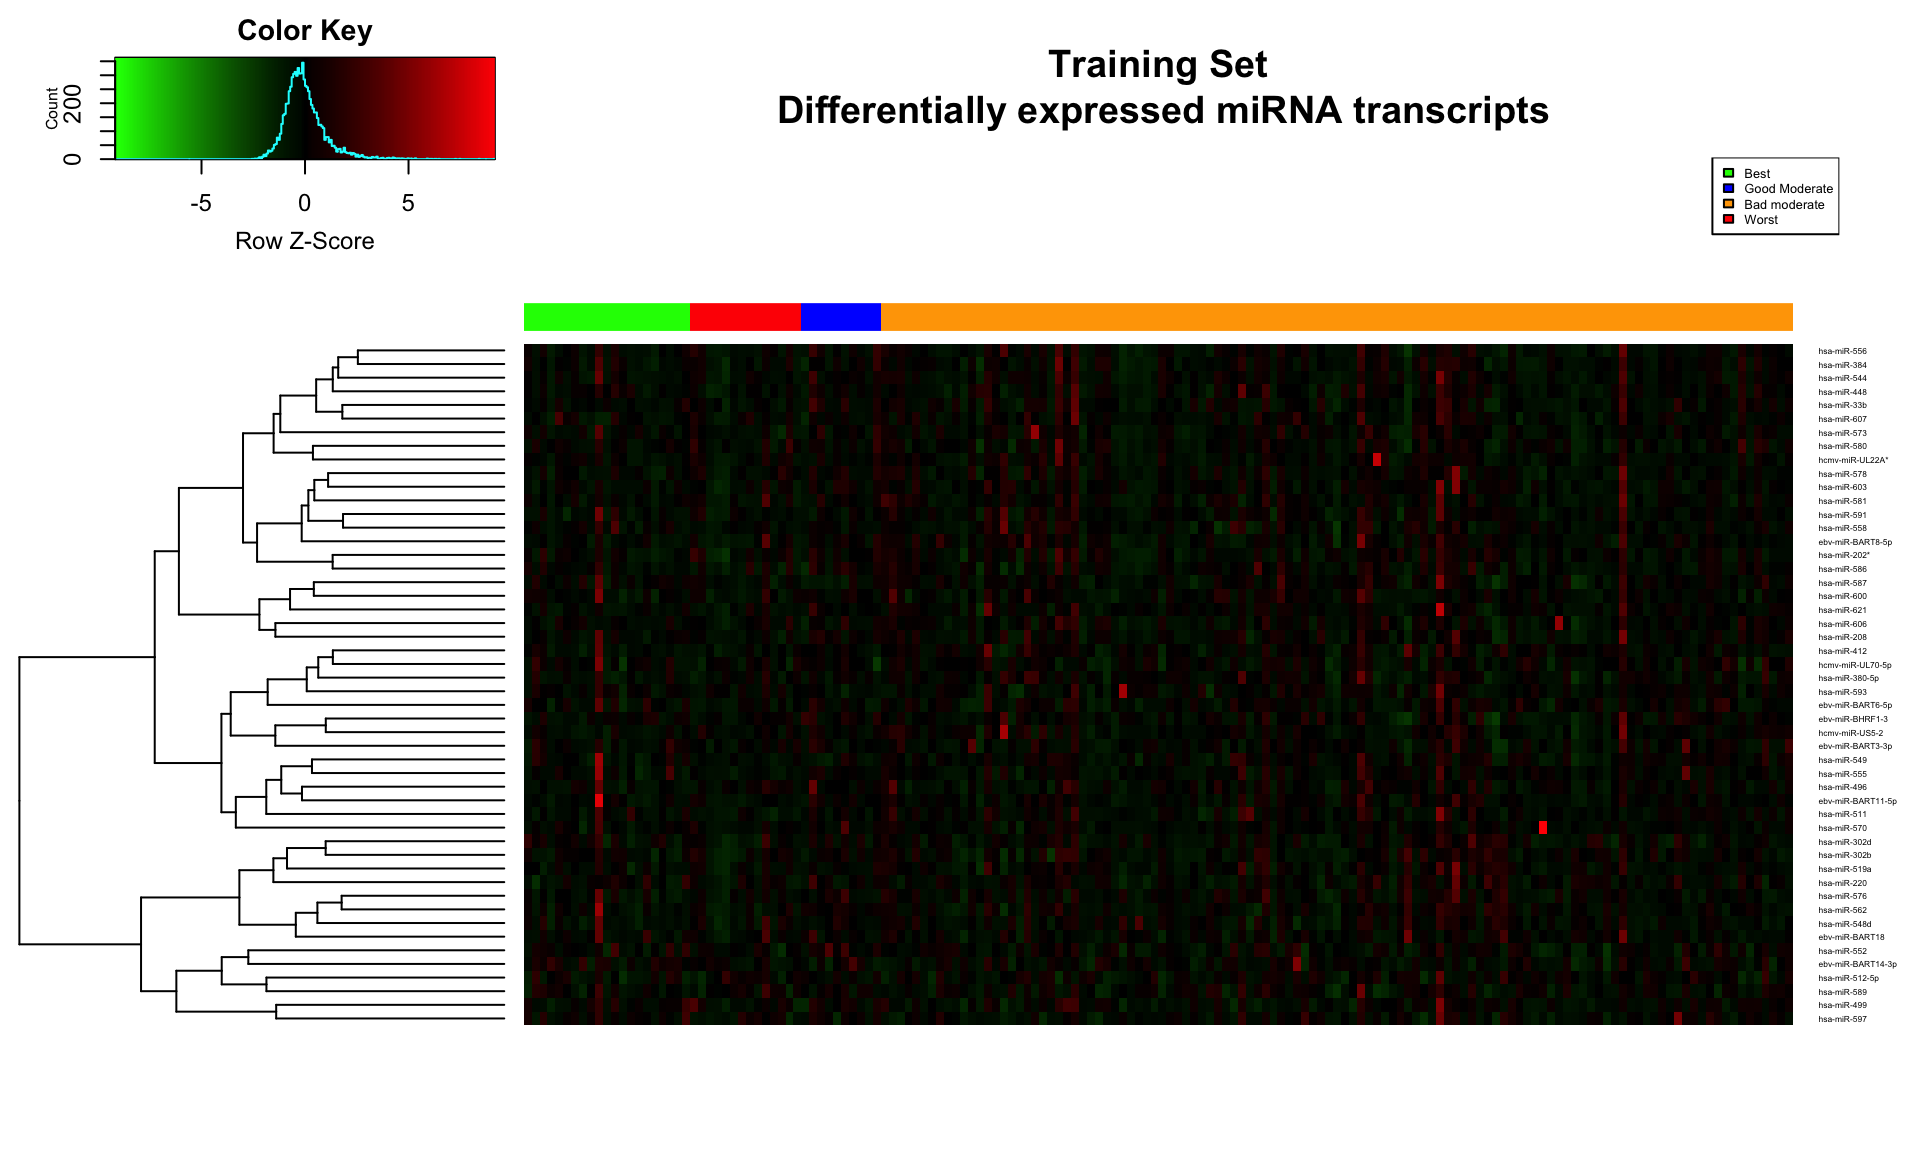
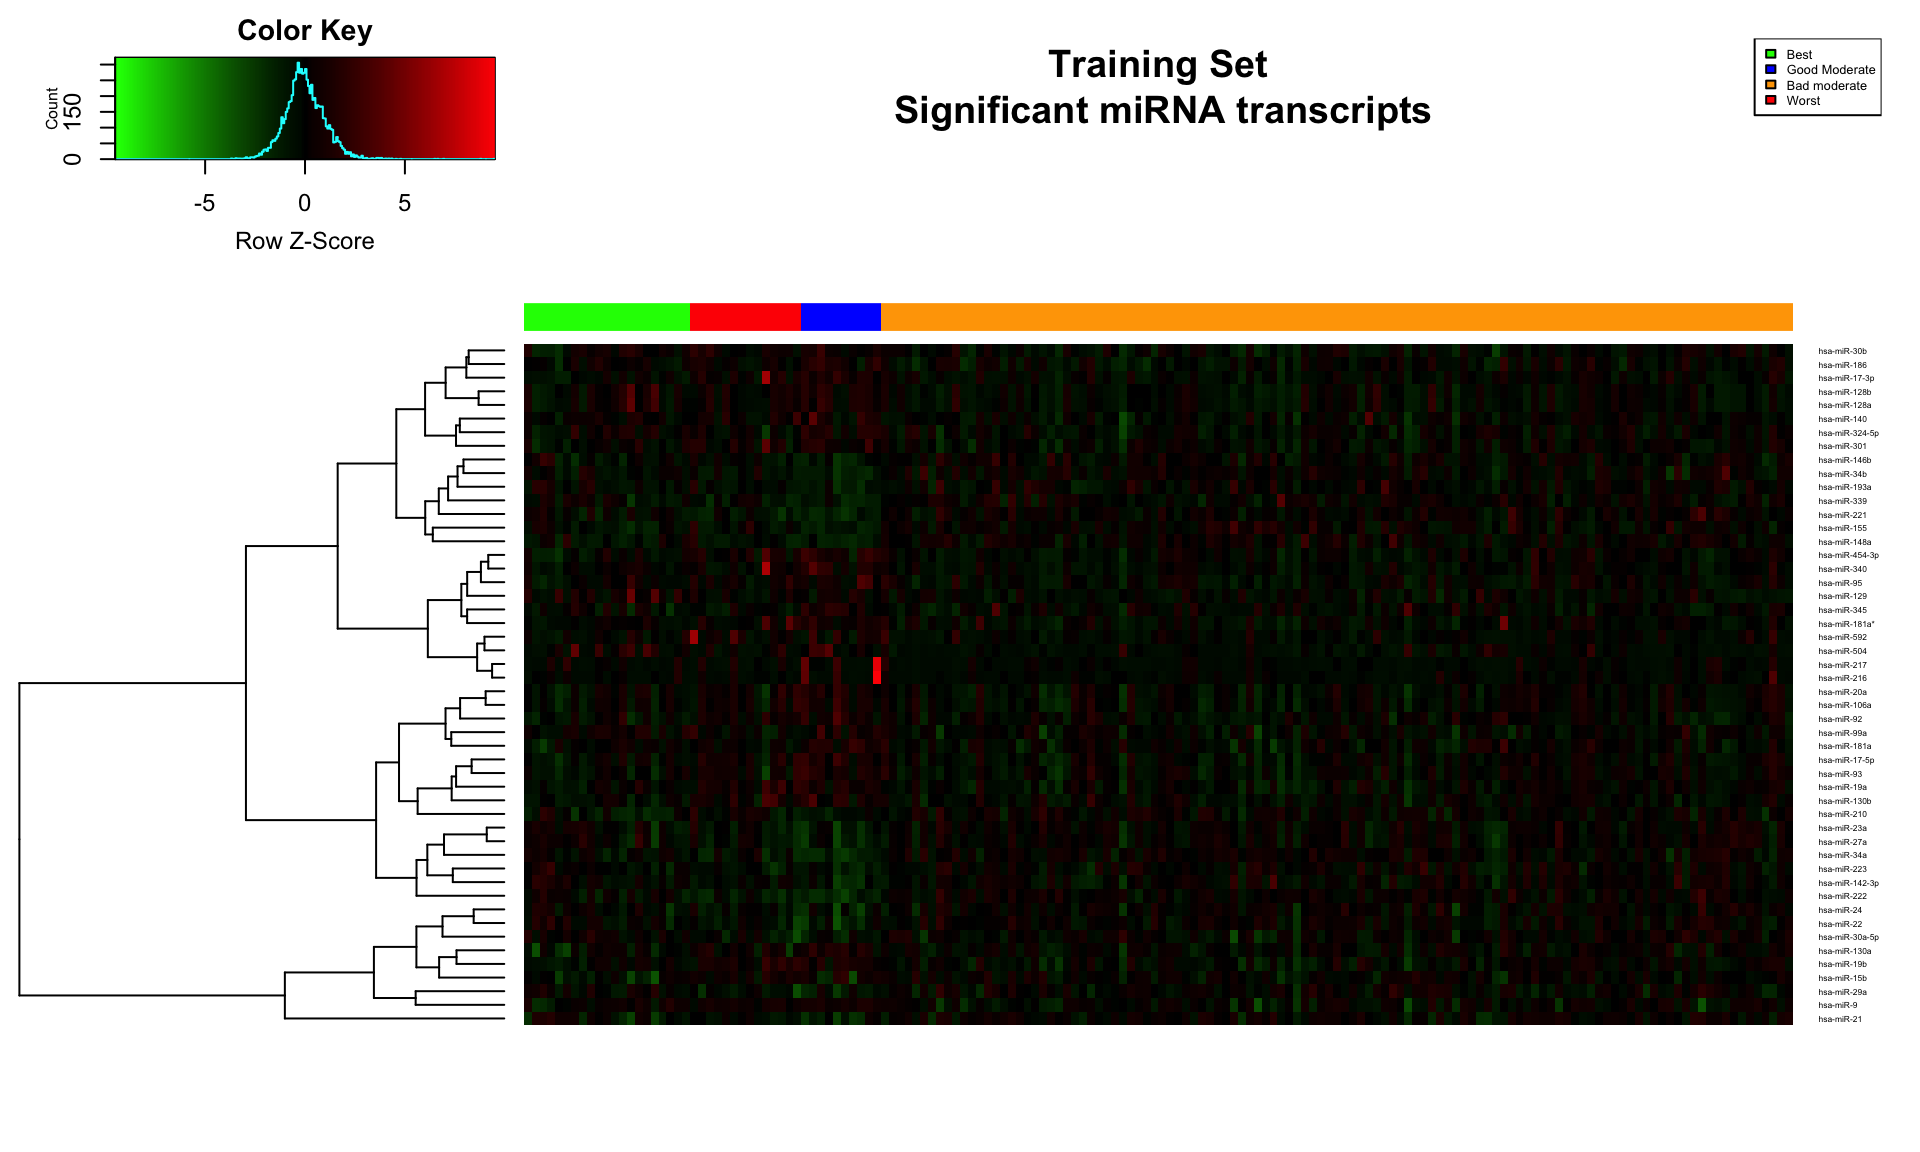
signigicant feature plots

diff --git a/docs/AnalysisOfResults.html b/docs/AnalysisOfResults.html
@@ -765,19 +765,23 @@ p.targets.test</code></pre>
 <h2>Differential expression</h2>
 <div id="training-set-5" class="section level3">
 <h3>Training set</h3>
+<div id="heatmap-1" class="section level4">
+<h4>Heatmap</h4>
 <pre class="r"><code>##### Load the SBC Labels
 cluster  &lt;- factor(c.sbc)
 ##### Create the design matrix with these labels
-mm &lt;- model.matrix( ~0+cluster)
+design&lt;- model.matrix( ~0+cluster)
+fit&lt;-lmFit(t(miRNA_TrainingSet) , design= design)
 
 ##### You can also define a contrast matrix which only looks at cluster specific contrasts
 cont.matrix &lt;- makeContrasts(Cluster1vsCluster2 = cluster1 - cluster2,Cluster1vsCluster3=cluster1 - cluster3,Cluster1vsCluster4=cluster1 - cluster4,Cluster2vsCluster3= cluster2 - cluster3,
-Cluster2vsCluster4=cluster2 - cluster4,Cluster3vsCluster4=cluster3 - cluster4,levels= mm)
+Cluster2vsCluster4=cluster2 - cluster4,Cluster3vsCluster4=cluster3 - cluster4,levels= design)
+
 ###### Fit limma model
-fit &lt;- lmFit(t(miRNA_TrainingSet), design = mm)
-efit &lt;- eBayes(fit)
+fit.2 &lt;- contrasts.fit(fit, contrasts = cont.matrix)
+fit.2 &lt;- eBayes(fit.2, trend= TRUE)
 ###### Look for DE table
-topmiRNA.train&lt;-rownames(topTable(efit,number=50,adjust.method=&quot;BH&quot;))
+topmiRNA.train&lt;-rownames(topTable(fit.2,number=50, p.val=0.1))
 
 miRNA.matrix.train&lt;-miRNA_TrainingSet[,topmiRNA.train]
 miRNA.matrix.train$sbc.labels&lt;-c.sbc
@@ -785,42 +789,65 @@ miRNA.matrix.train&lt;-miRNA.matrix.train[order(miRNA.matrix.train$sbc.labels),]
 ordered_labels&lt;-miRNA.matrix.train$sbc.labels
 miRNA.matrix.train$sbc.labels&lt;-NULL
 
+par(mar=c(1,1,1,1))
+
 hmcols&lt;-colorRampPalette(c(&quot;green&quot;,&quot;black&quot;,&quot;red&quot;))(256)
-heatmap.2(x = t(miRNA.matrix.train),Colv = FALSE, Rowv=TRUE, dendrogram= c(&quot;row&quot;), scale =&quot;row&quot;,ColSideColors =c(&quot;green&quot;,&quot;red&quot;,&quot;blue&quot;,&quot;orange&quot;)[ordered_labels], labRow = colnames(miRNA.matrix.train), labCol = NA, main = &#39; \n Training Set \n Differentially expressed miRNA transcripts&#39;, col =hmcols, cexRow =0.40, trace =&quot;none&quot;, key.title = &quot;Color Key&quot;)
+heatmap.2(x = t(miRNA.matrix.train),Colv = FALSE, Rowv=TRUE, dendrogram= c(&quot;row&quot;), scale =&quot;row&quot;,ColSideColors =c(&quot;green&quot;,&quot;red&quot;,&quot;blue&quot;,&quot;orange&quot;)[ordered_labels], labRow = colnames(miRNA.matrix.train), labCol = NA, main = &#39; \n Training Set \n Significant miRNA transcripts&#39;, col =hmcols, cexRow =0.40, trace =&quot;none&quot;, key.title = &quot;Color Key&quot;)
 legend(&quot;topright&quot;, legend = c(&quot;Best&quot;,&quot;Good Moderate&quot;,&quot;Bad moderate&quot;,&quot;Worst&quot;),fill = c(&quot;Green&quot;,&quot;Blue&quot;,&quot;Orange&quot;,&quot;Red&quot;), cex = 0.4)</code></pre>
 <p><img src="AnalysisOfResults_files/figure-html/miRNA%20differential%20expression%20%20of%20training%20set-1.png" width="960" /></p>
 </div>
+<div id="significant-features" class="section level4">
+<h4>Significant features</h4>
+<pre class="r"><code>par(mar=c(1,1,1,1))
+pairwise.miRNA.train&lt;-as.matrix(topTable(fit.2,number = 20,adjust.method=&quot;BH&quot;)[,1:6])
+#hmcols&lt;-colorRampPalette(c(&quot;green&quot;,&quot;black&quot;,&quot;red&quot;))(256)
+heatmap.2(x = pairwise.miRNA.train,Colv = FALSE, Rowv=TRUE, dendrogram= c(&quot;row&quot;), scale =&quot;row&quot;, labRow =rownames(pairwise.miRNA.train), labCol = colnames(pairwise.miRNA.train), main = &#39; \n Training Set \n Significant miRNA transcripts&#39;, col =hmcols, cexRow =0.40,cexCol = 0.4, trace =&quot;none&quot;, key.title = &quot;Color Key&quot;, margins=c(6,10))</code></pre>
+<p><img src="AnalysisOfResults_files/figure-html/Significant%20miRNA%20transcript%20in%20pairwise%20comparisons%20for%20training-1.png" width="960" /></p>
+</div>
+</div>
 <div id="test-set-5" class="section level3">
 <h3>Test set</h3>
+<div id="heatmap-2" class="section level4">
+<h4>Heatmap</h4>
 <pre class="r"><code>##### Load the SBC Labels
 cluster.new  &lt;- factor(c.sbc.new)
 ##### Create the design matrix with these labels
-mm.new &lt;- model.matrix( ~0+cluster.new)
+design.new&lt;- model.matrix( ~0+cluster.new)
+fit.new&lt;-lmFit(t(miRNA_TestSet) , design= design.new)
 
 ##### You can also define a contrast matrix which only looks at cluster specific contrasts
 cont.matrix &lt;- makeContrasts(Cluster1vsCluster2 = cluster1 - cluster2,Cluster1vsCluster3=cluster1 - cluster3,Cluster1vsCluster4=cluster1 - cluster4,Cluster2vsCluster3= cluster2 - cluster3,
-Cluster2vsCluster4=cluster2 - cluster4,Cluster3vsCluster4=cluster3 - cluster4,levels= mm)
+Cluster2vsCluster4=cluster2 - cluster4,Cluster3vsCluster4=cluster3 - cluster4,levels= design)
+
 ###### Fit limma model
-fit.new &lt;- lmFit(t(miRNA_TestSet), design = mm.new)
-efit.new &lt;- eBayes(fit.new)
+fit.2.new &lt;- contrasts.fit(fit.new, contrasts = cont.matrix)
+fit.2.new &lt;- eBayes(fit.2.new, trend= TRUE)
 ###### Look for DE table
-topmiRNA.test&lt;-rownames(topTable(efit.new,number=50,adjust.method=&quot;BH&quot;))
+topmiRNA.test&lt;-rownames(topTable(fit.2.new,number=50))
 
 miRNA.matrix.test&lt;-miRNA_TestSet[,topmiRNA.test]
 miRNA.matrix.test$sbc.labels&lt;-c.sbc.new
 miRNA.matrix.test&lt;-miRNA.matrix.test[order(miRNA.matrix.test$sbc.labels),]
-ordered_labels.new&lt;-miRNA.matrix.test$sbc.labels
+ordered_labels&lt;-miRNA.matrix.test$sbc.labels
 miRNA.matrix.test$sbc.labels&lt;-NULL
 
+par(mar=c(1,1,1,1))
+
 hmcols&lt;-colorRampPalette(c(&quot;green&quot;,&quot;black&quot;,&quot;red&quot;))(256)
-heatmap.2(x = t(miRNA.matrix.test),Colv = FALSE, Rowv=TRUE, dendrogram= c(&quot;row&quot;), scale =&quot;row&quot;,ColSideColors =c(&quot;green&quot;,&quot;red&quot;,&quot;blue&quot;,&quot;orange&quot;)[ordered_labels.new], labRow = colnames(miRNA.matrix.test), labCol = NA, main = &#39; \n Test Set \n Differentially expressed miRNA transcripts&#39;, col =hmcols, cexRow =0.40, trace =&quot;none&quot;, key.title = &quot;Color Key&quot;)
+heatmap.2(x = t(miRNA.matrix.test),Colv = FALSE, Rowv=TRUE, dendrogram= c(&quot;row&quot;), scale =&quot;row&quot;,ColSideColors =c(&quot;green&quot;,&quot;red&quot;,&quot;blue&quot;,&quot;orange&quot;)[ordered_labels], labRow = colnames(miRNA.matrix.test), labCol = NA, main = &#39; \n Test Set \n Significant miRNA transcripts&#39;, col =hmcols, cexRow =0.40, trace =&quot;none&quot;, key.title = &quot;Color Key&quot;)
 legend(&quot;topright&quot;, legend = c(&quot;Best&quot;,&quot;Good Moderate&quot;,&quot;Bad moderate&quot;,&quot;Worst&quot;),fill = c(&quot;Green&quot;,&quot;Blue&quot;,&quot;Orange&quot;,&quot;Red&quot;), cex = 0.4)</code></pre>
-<p><img src="AnalysisOfResults_files/figure-html/miRNA%20differential%20expression%20of%20test%20set-1.png" width="960" /></p>
+<p><img src="AnalysisOfResults_files/figure-html/miRNA%20differential%20expression%20%20of%20test%20set-1.png" width="960" /></p>
+</div>
+<div id="significant-features-1" class="section level4">
+<h4>Significant features</h4>
+<pre class="r"><code>par(mar=c(1,1,1,1))
+pairwise.miRNA.test&lt;-as.matrix(topTable(fit.2.new,number = 20,adjust.method=&quot;BH&quot;)[,1:6])
+#hmcols&lt;-colorRampPalette(c(&quot;green&quot;,&quot;black&quot;,&quot;red&quot;))(256)
+heatmap.2(x = pairwise.miRNA.test,Colv = FALSE, Rowv=TRUE, dendrogram= c(&quot;row&quot;), scale =&quot;row&quot;, labRow =rownames(pairwise.miRNA.test), labCol = colnames(pairwise.miRNA.test), main = &#39; \n Test Set \n Significant miRNA transcripts&#39;, col =hmcols, cexRow =0.40,cexCol = 0.4, trace =&quot;none&quot;, key.title = &quot;Color Key&quot;, margins=c(6,10))</code></pre>
+<p><img src="AnalysisOfResults_files/figure-html/Significant%20miRNA%20transcript%20in%20pairwise%20comparisons%20for%20testing-1.png" width="960" /> # Clinical Data</p>
 </div>
 </div>
 </div>
-<div id="clinical-data" class="section level1">
-<h1>Clinical Data</h1>
 <div id="training-set-6" class="section level2">
 <h2>Training Set</h2>
 <pre class="r"><code>Clinical_TrainingSet$sbc.labels&lt;-c.sbc

diff --git a/docs/AnalysisOfResults1.html b/docs/AnalysisOfResults1.html
@@ -763,19 +763,23 @@ p.targets.test</code></pre>
 <h2>Differential expression</h2>
 <div id="training-set-5" class="section level3">
 <h3>Training set</h3>
+<div id="heatmap-1" class="section level4">
+<h4>Heatmap</h4>
 <pre class="r"><code>##### Load the SBC Labels
 cluster  &lt;- factor(c.sbc)
 ##### Create the design matrix with these labels
-mm &lt;- model.matrix( ~0+cluster)
+design&lt;- model.matrix( ~0+cluster)
+fit&lt;-lmFit(t(miRNA_TrainingSet) , design= design)
 
 ##### You can also define a contrast matrix which only looks at cluster specific contrasts
 cont.matrix &lt;- makeContrasts(Cluster1vsCluster2 = cluster1 - cluster2,Cluster1vsCluster3=cluster1 - cluster3,Cluster1vsCluster4=cluster1 - cluster4,Cluster2vsCluster3= cluster2 - cluster3,
-Cluster2vsCluster4=cluster2 - cluster4,Cluster3vsCluster4=cluster3 - cluster4,levels= mm)
+Cluster2vsCluster4=cluster2 - cluster4,Cluster3vsCluster4=cluster3 - cluster4,levels= design)
+
 ###### Fit limma model
-fit &lt;- lmFit(t(miRNA_TrainingSet), design = mm)
-efit &lt;- eBayes(fit)
+fit.2 &lt;- contrasts.fit(fit, contrasts = cont.matrix)
+fit.2 &lt;- eBayes(fit.2, trend= TRUE)
 ###### Look for DE table
-topmiRNA.train&lt;-rownames(topTable(efit,number=50,adjust.method=&quot;BH&quot;))
+topmiRNA.train&lt;-rownames(topTable(fit.2,number=50, p.val=0.1))
 
 miRNA.matrix.train&lt;-miRNA_TrainingSet[,topmiRNA.train]
 miRNA.matrix.train$sbc.labels&lt;-c.sbc
@@ -783,37 +787,63 @@ miRNA.matrix.train&lt;-miRNA.matrix.train[order(miRNA.matrix.train$sbc.labels),]
 ordered_labels&lt;-miRNA.matrix.train$sbc.labels
 miRNA.matrix.train$sbc.labels&lt;-NULL
 
+par(mar=c(1,1,1,1))
+
 hmcols&lt;-colorRampPalette(c(&quot;green&quot;,&quot;black&quot;,&quot;red&quot;))(256)
-heatmap.2(x = t(miRNA.matrix.train),Colv = FALSE, Rowv=TRUE, dendrogram= c(&quot;row&quot;), scale =&quot;row&quot;,ColSideColors =c(&quot;green&quot;,&quot;red&quot;,&quot;blue&quot;,&quot;orange&quot;)[ordered_labels], labRow = colnames(miRNA.matrix.train), labCol = NA, main = &#39; \n Training Set \n Differentially expressed miRNA transcripts&#39;, col =hmcols, cexRow =0.40, trace =&quot;none&quot;, key.title = &quot;Color Key&quot;)
+heatmap.2(x = t(miRNA.matrix.train),Colv = FALSE, Rowv=TRUE, dendrogram= c(&quot;row&quot;), scale =&quot;row&quot;,ColSideColors =c(&quot;green&quot;,&quot;red&quot;,&quot;blue&quot;,&quot;orange&quot;)[ordered_labels], labRow = colnames(miRNA.matrix.train), labCol = NA, main = &#39; \n Training Set \n Significant miRNA transcripts&#39;, col =hmcols, cexRow =0.40, trace =&quot;none&quot;, key.title = &quot;Color Key&quot;)
 legend(&quot;topright&quot;, legend = c(&quot;Best&quot;,&quot;Good Moderate&quot;,&quot;Bad moderate&quot;,&quot;Worst&quot;),fill = c(&quot;Green&quot;,&quot;Blue&quot;,&quot;Orange&quot;,&quot;Red&quot;), cex = 0.4)</code></pre>
 <p><img src="AnalysisOfResults1_files/figure-html/miRNA%20differential%20expression%20%20of%20training%20set-1.png" width="960" /></p>
 </div>
+<div id="significant-features" class="section level4">
+<h4>Significant features</h4>
+<pre class="r"><code>par(mar=c(1,1,1,1))
+pairwise.miRNA.train&lt;-as.matrix(topTable(fit.2,number = 20,adjust.method=&quot;BH&quot;)[,1:6])
+#hmcols&lt;-colorRampPalette(c(&quot;green&quot;,&quot;black&quot;,&quot;red&quot;))(256)
+heatmap.2(x = pairwise.miRNA.train,Colv = FALSE, Rowv=TRUE, dendrogram= c(&quot;row&quot;), scale =&quot;row&quot;, labRow =rownames(pairwise.miRNA.train), labCol = colnames(pairwise.miRNA.train), main = &#39; \n Training Set \n Significant miRNA transcripts&#39;, col =hmcols, cexRow =0.40,cexCol = 0.4, trace =&quot;none&quot;, key.title = &quot;Color Key&quot;, margins=c(6,10))</code></pre>
+<p><img src="AnalysisOfResults1_files/figure-html/Significant%20miRNA%20transcript%20in%20pairwise%20comparisons%20for%20training-1.png" width="960" /></p>
+</div>
+</div>
 <div id="test-set-5" class="section level3">
 <h3>Test set</h3>
+<div id="heatmap-2" class="section level4">
+<h4>Heatmap</h4>
 <pre class="r"><code>##### Load the SBC Labels
 cluster.new  &lt;- factor(c.sbc.new)
 ##### Create the design matrix with these labels
-mm.new &lt;- model.matrix( ~0+cluster.new)
+design.new&lt;- model.matrix( ~0+cluster.new)
+fit.new&lt;-lmFit(t(miRNA_TestSet) , design= design.new)
 
 ##### You can also define a contrast matrix which only looks at cluster specific contrasts
 cont.matrix &lt;- makeContrasts(Cluster1vsCluster2 = cluster1 - cluster2,Cluster1vsCluster3=cluster1 - cluster3,Cluster1vsCluster4=cluster1 - cluster4,Cluster2vsCluster3= cluster2 - cluster3,
-Cluster2vsCluster4=cluster2 - cluster4,Cluster3vsCluster4=cluster3 - cluster4,levels= mm)
+Cluster2vsCluster4=cluster2 - cluster4,Cluster3vsCluster4=cluster3 - cluster4,levels= design)
+
 ###### Fit limma model
-fit.new &lt;- lmFit(t(miRNA_TestSet), design = mm.new)
-efit.new &lt;- eBayes(fit.new)
+fit.2.new &lt;- contrasts.fit(fit.new, contrasts = cont.matrix)
+fit.2.new &lt;- eBayes(fit.2.new, trend= TRUE)
 ###### Look for DE table
-topmiRNA.test&lt;-rownames(topTable(efit.new,number=50,adjust.method=&quot;BH&quot;))
+topmiRNA.test&lt;-rownames(topTable(fit.2.new,number=50))
 
 miRNA.matrix.test&lt;-miRNA_TestSet[,topmiRNA.test]
 miRNA.matrix.test$sbc.labels&lt;-c.sbc.new
 miRNA.matrix.test&lt;-miRNA.matrix.test[order(miRNA.matrix.test$sbc.labels),]
-ordered_labels.new&lt;-miRNA.matrix.test$sbc.labels
+ordered_labels&lt;-miRNA.matrix.test$sbc.labels
 miRNA.matrix.test$sbc.labels&lt;-NULL
 
+par(mar=c(1,1,1,1))
+
 hmcols&lt;-colorRampPalette(c(&quot;green&quot;,&quot;black&quot;,&quot;red&quot;))(256)
-heatmap.2(x = t(miRNA.matrix.test),Colv = FALSE, Rowv=TRUE, dendrogram= c(&quot;row&quot;), scale =&quot;row&quot;,ColSideColors =c(&quot;green&quot;,&quot;red&quot;,&quot;blue&quot;,&quot;orange&quot;)[ordered_labels.new], labRow = colnames(miRNA.matrix.test), labCol = NA, main = &#39; \n Test Set \n Differentially expressed miRNA transcripts&#39;, col =hmcols, cexRow =0.40, trace =&quot;none&quot;, key.title = &quot;Color Key&quot;)
+heatmap.2(x = t(miRNA.matrix.test),Colv = FALSE, Rowv=TRUE, dendrogram= c(&quot;row&quot;), scale =&quot;row&quot;,ColSideColors =c(&quot;green&quot;,&quot;red&quot;,&quot;blue&quot;,&quot;orange&quot;)[ordered_labels], labRow = colnames(miRNA.matrix.test), labCol = NA, main = &#39; \n Test Set \n Significant miRNA transcripts&#39;, col =hmcols, cexRow =0.40, trace =&quot;none&quot;, key.title = &quot;Color Key&quot;)
 legend(&quot;topright&quot;, legend = c(&quot;Best&quot;,&quot;Good Moderate&quot;,&quot;Bad moderate&quot;,&quot;Worst&quot;),fill = c(&quot;Green&quot;,&quot;Blue&quot;,&quot;Orange&quot;,&quot;Red&quot;), cex = 0.4)</code></pre>
-<p><img src="AnalysisOfResults1_files/figure-html/miRNA%20differential%20expression%20of%20test%20set-1.png" width="960" /></p>
+<p><img src="AnalysisOfResults1_files/figure-html/miRNA%20differential%20expression%20%20of%20test%20set-1.png" width="960" /></p>
+</div>
+<div id="significant-features-1" class="section level4">
+<h4>Significant features</h4>
+<pre class="r"><code>par(mar=c(1,1,1,1))
+pairwise.miRNA.test&lt;-as.matrix(topTable(fit.2.new,number = 20,adjust.method=&quot;BH&quot;)[,1:6])
+#hmcols&lt;-colorRampPalette(c(&quot;green&quot;,&quot;black&quot;,&quot;red&quot;))(256)
+heatmap.2(x = pairwise.miRNA.test,Colv = FALSE, Rowv=TRUE, dendrogram= c(&quot;row&quot;), scale =&quot;row&quot;, labRow =rownames(pairwise.miRNA.test), labCol = colnames(pairwise.miRNA.test), main = &#39; \n Test Set \n Significant miRNA transcripts&#39;, col =hmcols, cexRow =0.40,cexCol = 0.4, trace =&quot;none&quot;, key.title = &quot;Color Key&quot;, margins=c(6,10))</code></pre>
+<p><img src="AnalysisOfResults1_files/figure-html/Significant%20miRNA%20transcript%20in%20pairwise%20comparisons%20for%20testing-1.png" width="960" /></p>
+</div>
 </div>
 </div>
 </div>

diff --git a/docs/index.html b/docs/index.html
@@ -2594,8 +2594,6 @@ window.FlexDashboardComponents.push({
 
 <div id="home" class="section level1" data-icon="fa-home">
 <h1>Home</h1>
-<div id="row" class="section level2">
-<h2>Row</h2>
 <div id="chart-1" class="section level3">
 <h3>Chart 1</h3>
 <div class="knitr-options" data-fig-width="576" data-fig-height="460">
@@ -2603,8 +2601,7 @@ window.FlexDashboardComponents.push({
 </div>
 <span class="value-output" data-caption="Verhaak samples present on the TCGA-GBM Dataset" data-color="#85C1E9" data-href="Preliminary_Results.html">1</span>
 </div>
-</div>
-<div id="row-1" class="section level2">
+<div id="row" class="section level2">
 <h2>Row</h2>
 <div id="chart-2" class="section level3">
 <h3>Chart 2</h3>
@@ -2614,7 +2611,7 @@ window.FlexDashboardComponents.push({
 <span class="value-output" data-caption="All samples on the TCGA-GBM Dataset" data-color="#85C1E9" data-href="Results.html">2</span>
 </div>
 </div>
-<div id="row-2" class="section level2">
+<div id="row-1" class="section level2">
 <h2>Row</h2>
 <div id="chart-3" class="section level3">
 <h3>Chart 3</h3>
@@ -2624,7 +2621,7 @@ window.FlexDashboardComponents.push({
 <span class="value-output" data-caption="Karnofsky corrected samples" data-color="#85C1E9" data-href="Karnofsky_corrected_results.html">3</span>
 </div>
 </div>
-<div id="row-3" class="section level2">
+<div id="row-2" class="section level2">
 <h2>Row</h2>
 <div id="chart-4" class="section level3">
 <h3>Chart 4</h3>
@@ -2634,7 +2631,7 @@ window.FlexDashboardComponents.push({
 <span class="value-output" data-caption="Karnofsky corrected samples and Flexmix Intialization" data-color="#3498DB" data-href="Karnofsky_correction+Flexmix_initialization.html">4</span>
 </div>
 </div>
-<div id="row-4" class="section level2">
+<div id="row-3" class="section level2">
 <h2>Row</h2>
 <div id="chart-5" class="section level3">
 <h3>Chart 5</h3>
@@ -2644,7 +2641,7 @@ window.FlexDashboardComponents.push({
 <span class="value-output" data-caption="GSE methods on KEGG pathways for feature selection" data-color="#2E86C1" data-href="GSVA-KEGG.html">5</span>
 </div>
 </div>
-<div id="row-5" class="section level2">
+<div id="row-4" class="section level2">
 <h2>Row</h2>
 <div id="chart-6" class="section level3">
 <h3>Chart 6</h3>
@@ -2654,7 +2651,7 @@ window.FlexDashboardComponents.push({
 <span class="value-output" data-caption="GSE methods on Oncogenic gene sets for feature selection" data-color="#2E86C1" data-href="GSVA-Oncogenic_Signature.html">6</span>
 </div>
 </div>
-<div id="row-6" class="section level2">
+<div id="row-5" class="section level2">
 <h2>Row</h2>
 <div id="chart-7" class="section level3">
 <h3>Chart 7</h3>
@@ -2664,7 +2661,7 @@ window.FlexDashboardComponents.push({
 <span class="value-output" data-caption="GSE methods on NCI pathway sets for feature selection" data-color="#2E86C1" data-href="NCI.html">7</span>
 </div>
 </div>
-<div id="row-7" class="section level2">
+<div id="row-6" class="section level2">
 <h2>Row</h2>
 <div id="chart-8" class="section level3">
 <h3>Chart 8</h3>
@@ -2674,7 +2671,7 @@ window.FlexDashboardComponents.push({
 <span class="value-output" data-caption="GSVA on the Canonical Pathways" data-color="#2E86C1" data-href="GSVA.html">8</span>
 </div>
 </div>
-<div id="row-8" class="section level2">
+<div id="row-7" class="section level2">
 <h2>Row</h2>
 <div id="chart-9" class="section level3">
 <h3>Chart 9</h3>
@@ -2684,7 +2681,7 @@ window.FlexDashboardComponents.push({
 <span class="value-output" data-caption="Linear predictor of PCox model on the Oncogenic gene sets" data-color="#21618C" data-href="OncogenicGeneSets+Pcox.html">9</span>
 </div>
 </div>
-<div id="row-9" class="section level2">
+<div id="row-8" class="section level2">
 <h2>Row</h2>
 <div id="chart-10" class="section level3">
 <h3>Chart 10</h3>
@@ -2701,7 +2698,7 @@ window.FlexDashboardComponents.push({
 <span class="value-output" data-caption="Analysis of results 11" data-color="#FA8072" data-href="AnalysisOfResults.html">10.1</span>
 </div>
 </div>
-<div id="row-10" class="section level2">
+<div id="row-9" class="section level2">
 <h2>Row</h2>
 <div id="chart-12" class="section level3">
 <h3>Chart 12</h3>
@@ -2715,7 +2712,7 @@ window.FlexDashboardComponents.push({
 <div class="knitr-options" data-fig-width="576" data-fig-height="460">
 
 </div>
-<span class="value-output" data-caption="Analysis of results 14" data-color="#CD5C5C" data-href="AnalysisOfResults1.html">11.1</span>
+<span class="value-output" data-caption="Analysis of results 11" data-color="#CD5C5C" data-href="AnalysisOfResults1.html">11.1</span>
 </div>
 </div>
 </div>
